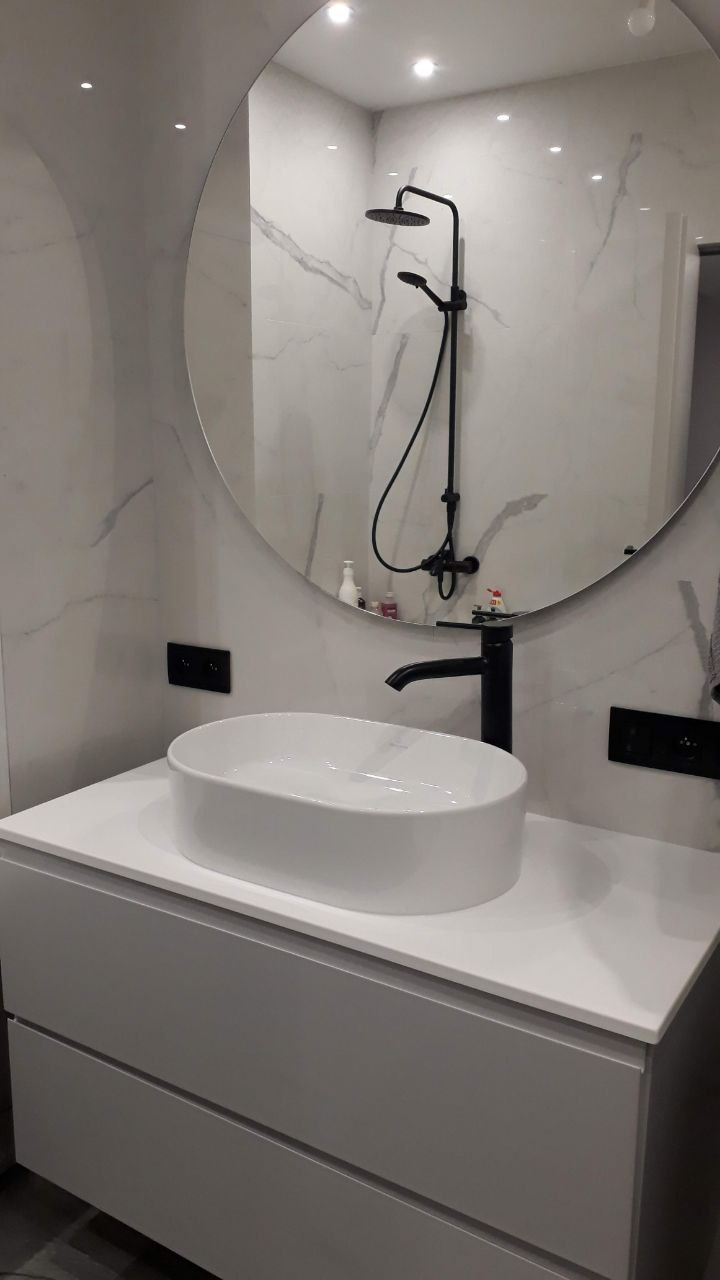
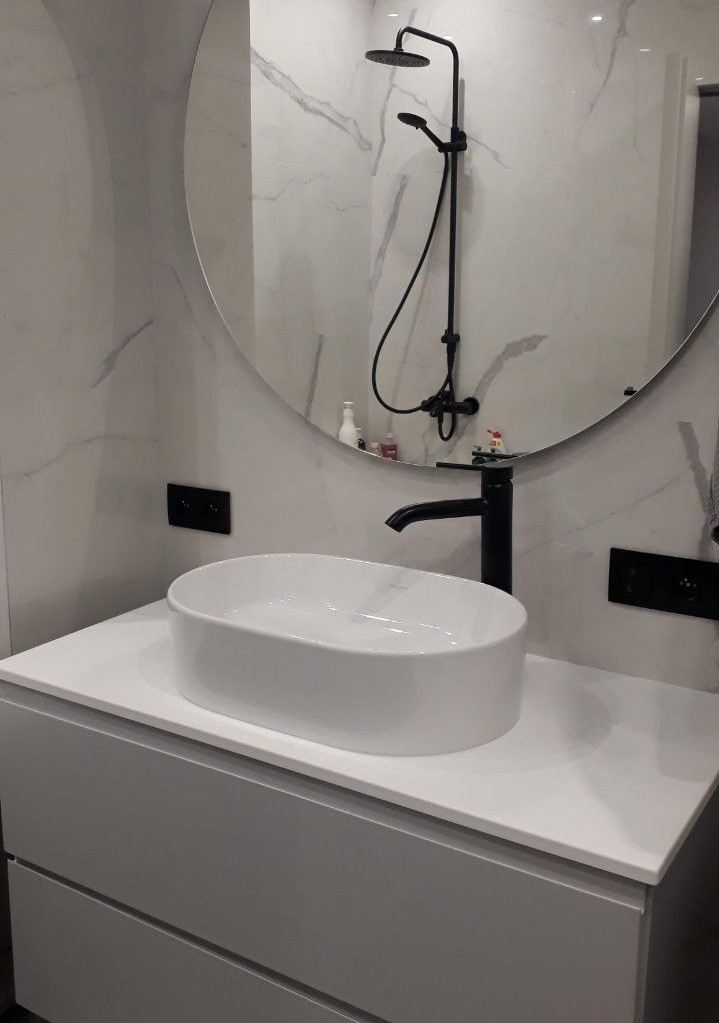
фото умывальники редакция

diff --git a/index.html b/index.html
@@ -62,7 +62,7 @@
                               <img src="img/slider/item1.png" alt="">
                               <img src="img/slider/item (2).png">
                               <img src="img/slider/item (3).png" alt="">
-                              <img src="img/slider/item (4).png" alt="">
+                              <img src="img/slider/item.jpg" alt=""> 
                               <img src="img/slider/item (5).png" alt="">
                               <img src="img/slider/item (6).png" alt="">
                             </div>
